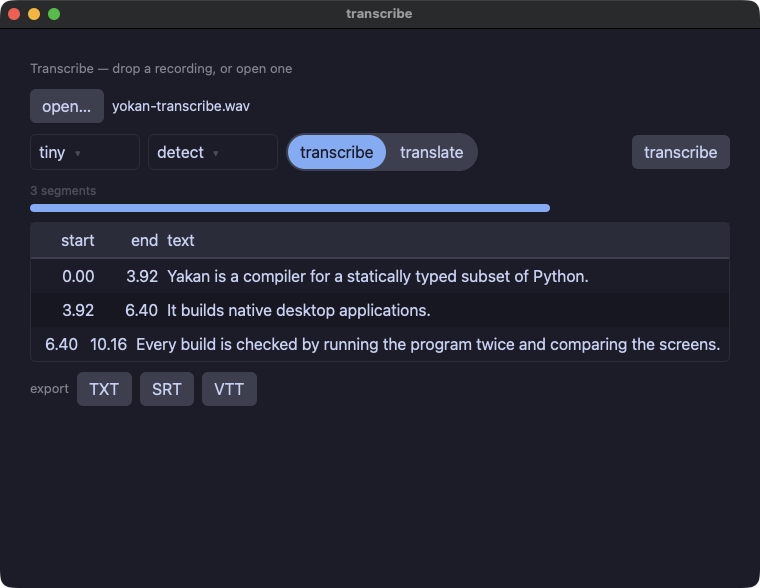
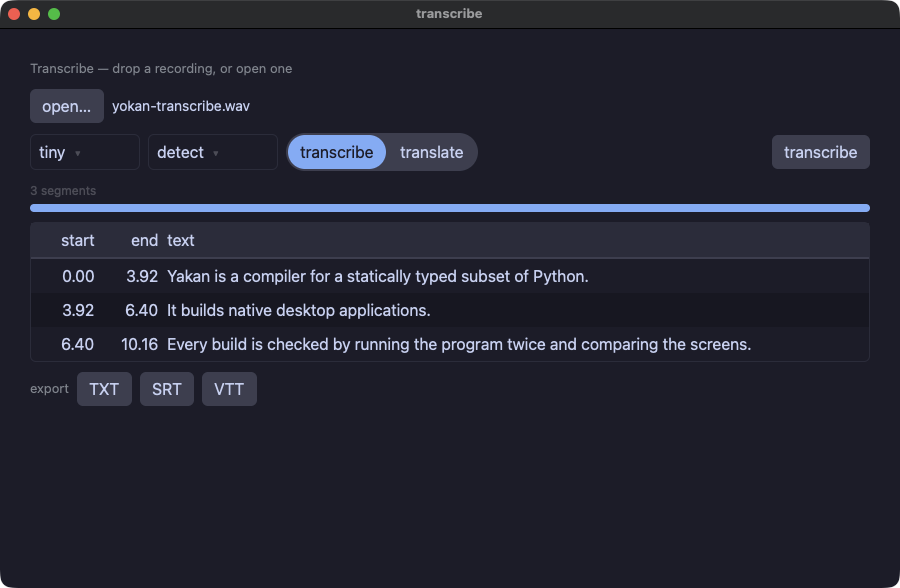
fix(engine): a declared text width does not shrink
The transcript table's columns did not line up: the row with the
longest line had its two time cells 17 px left of every other row's.
A `Text` carrying `width:` set the box and nothing else, and flexbox
shrinks by default — so the one row that could not fit paid for it by
squeezing the cells that had asked for a fixed size. `Sized` has
carried `flex_shrink_0` beside its width since it was written, with a
comment saying why; the `Text` rider now does the same.

Measuring the screenshot rather than squinting at it is what found
it: the row bands were the same height and the text was centred in
each, so the vertical suspicion was wrong, and sampling the ink
COLUMNS showed the third row sitting left of the other two.

The demo's window is 900 wide rather than 760 and its progress bar
takes the full width, so the gallery picture shows a whole transcript
rather than a clipped one.

diff --git a/crates/pixie-engine-gpui/src/lib.rs b/crates/pixie-engine-gpui/src/lib.rs
@@ -1632,9 +1632,13 @@ fn render_el_in<C: Component>(
             }
             // After `align`, so an explicit width wins over the
             // `w_full()` alignment asks for — the alignment still
-            // applies, inside the fixed box.
+            // applies, inside the fixed box. It does not shrink,
+            // either: a declared width that a crowded Row could
+            // squeeze is not a width, and a table's columns stop
+            // lining up the moment one row is wider than the rest.
+            // `Sized` has carried the same pair from the start.
             if *width > 0.0 {
-                d = d.w(px(*width as f32));
+                d = d.w(px(*width as f32)).flex_shrink_0();
             }
             if *grow > 0.0 {
                 d = d.flex_grow(*grow as f32).items_end();

diff --git a/crates/yokan/demo/transcribe/app.py b/crates/yokan/demo/transcribe/app.py
@@ -286,7 +286,7 @@ def view():
             segmented(options=jobs(), selected=job_ix(), on_change=pick_job)
             spacer()
             button("transcribe", on_click=start, disabled=busy())
-        progress(pct(), width=520.0, label=note())
+        progress(pct(), label=note())
         with scroll_view(height=260.0):
             with data_table():
                 # The two time columns are given a WIDTH rather than a
@@ -312,4 +312,4 @@ def view():
 
 
 if __name__ == "__main__":
-    run(view, title="transcribe", width=760, height=560)
+    run(view, title="transcribe", width=900, height=560)

diff --git a/crates/yokan/DESIGN.md b/crates/yokan/DESIGN.md
@@ -2033,3 +2033,21 @@ bundle already ships. The escape module points `sys.executable` at
 `sys.prefix/bin/python3` whenever that exists, which answers for the
 unbundled build too — there the prefix is the interpreter it was
 linked against.
+
+## A declared width is a width (2026-09-05)
+
+Looking at the transcript table closely enough to photograph it: the
+row with the longest line had its time columns 17 px to the left of
+every other row's, so the columns were not columns. A `Text` carrying
+`width:` set the box and nothing else, and flexbox shrinks by default
+— so the one row that could not fit paid for it by squeezing the two
+cells that had asked for a fixed size. `Sized` has always set
+`flex_shrink_0` beside its width, with a comment saying why; the
+`Text` rider now does the same.
+
+Two things this does not fix, and they are the same thing: a table
+row that cannot fit still overflows, and what overflows is clipped by
+the table rather than wrapped. Letting the grown cell shrink below its
+content (the `min-width: 0` flexbox move) would wrap it instead, and
+that changes every grown text in every app, so it is not something to
+land while looking at one table.
